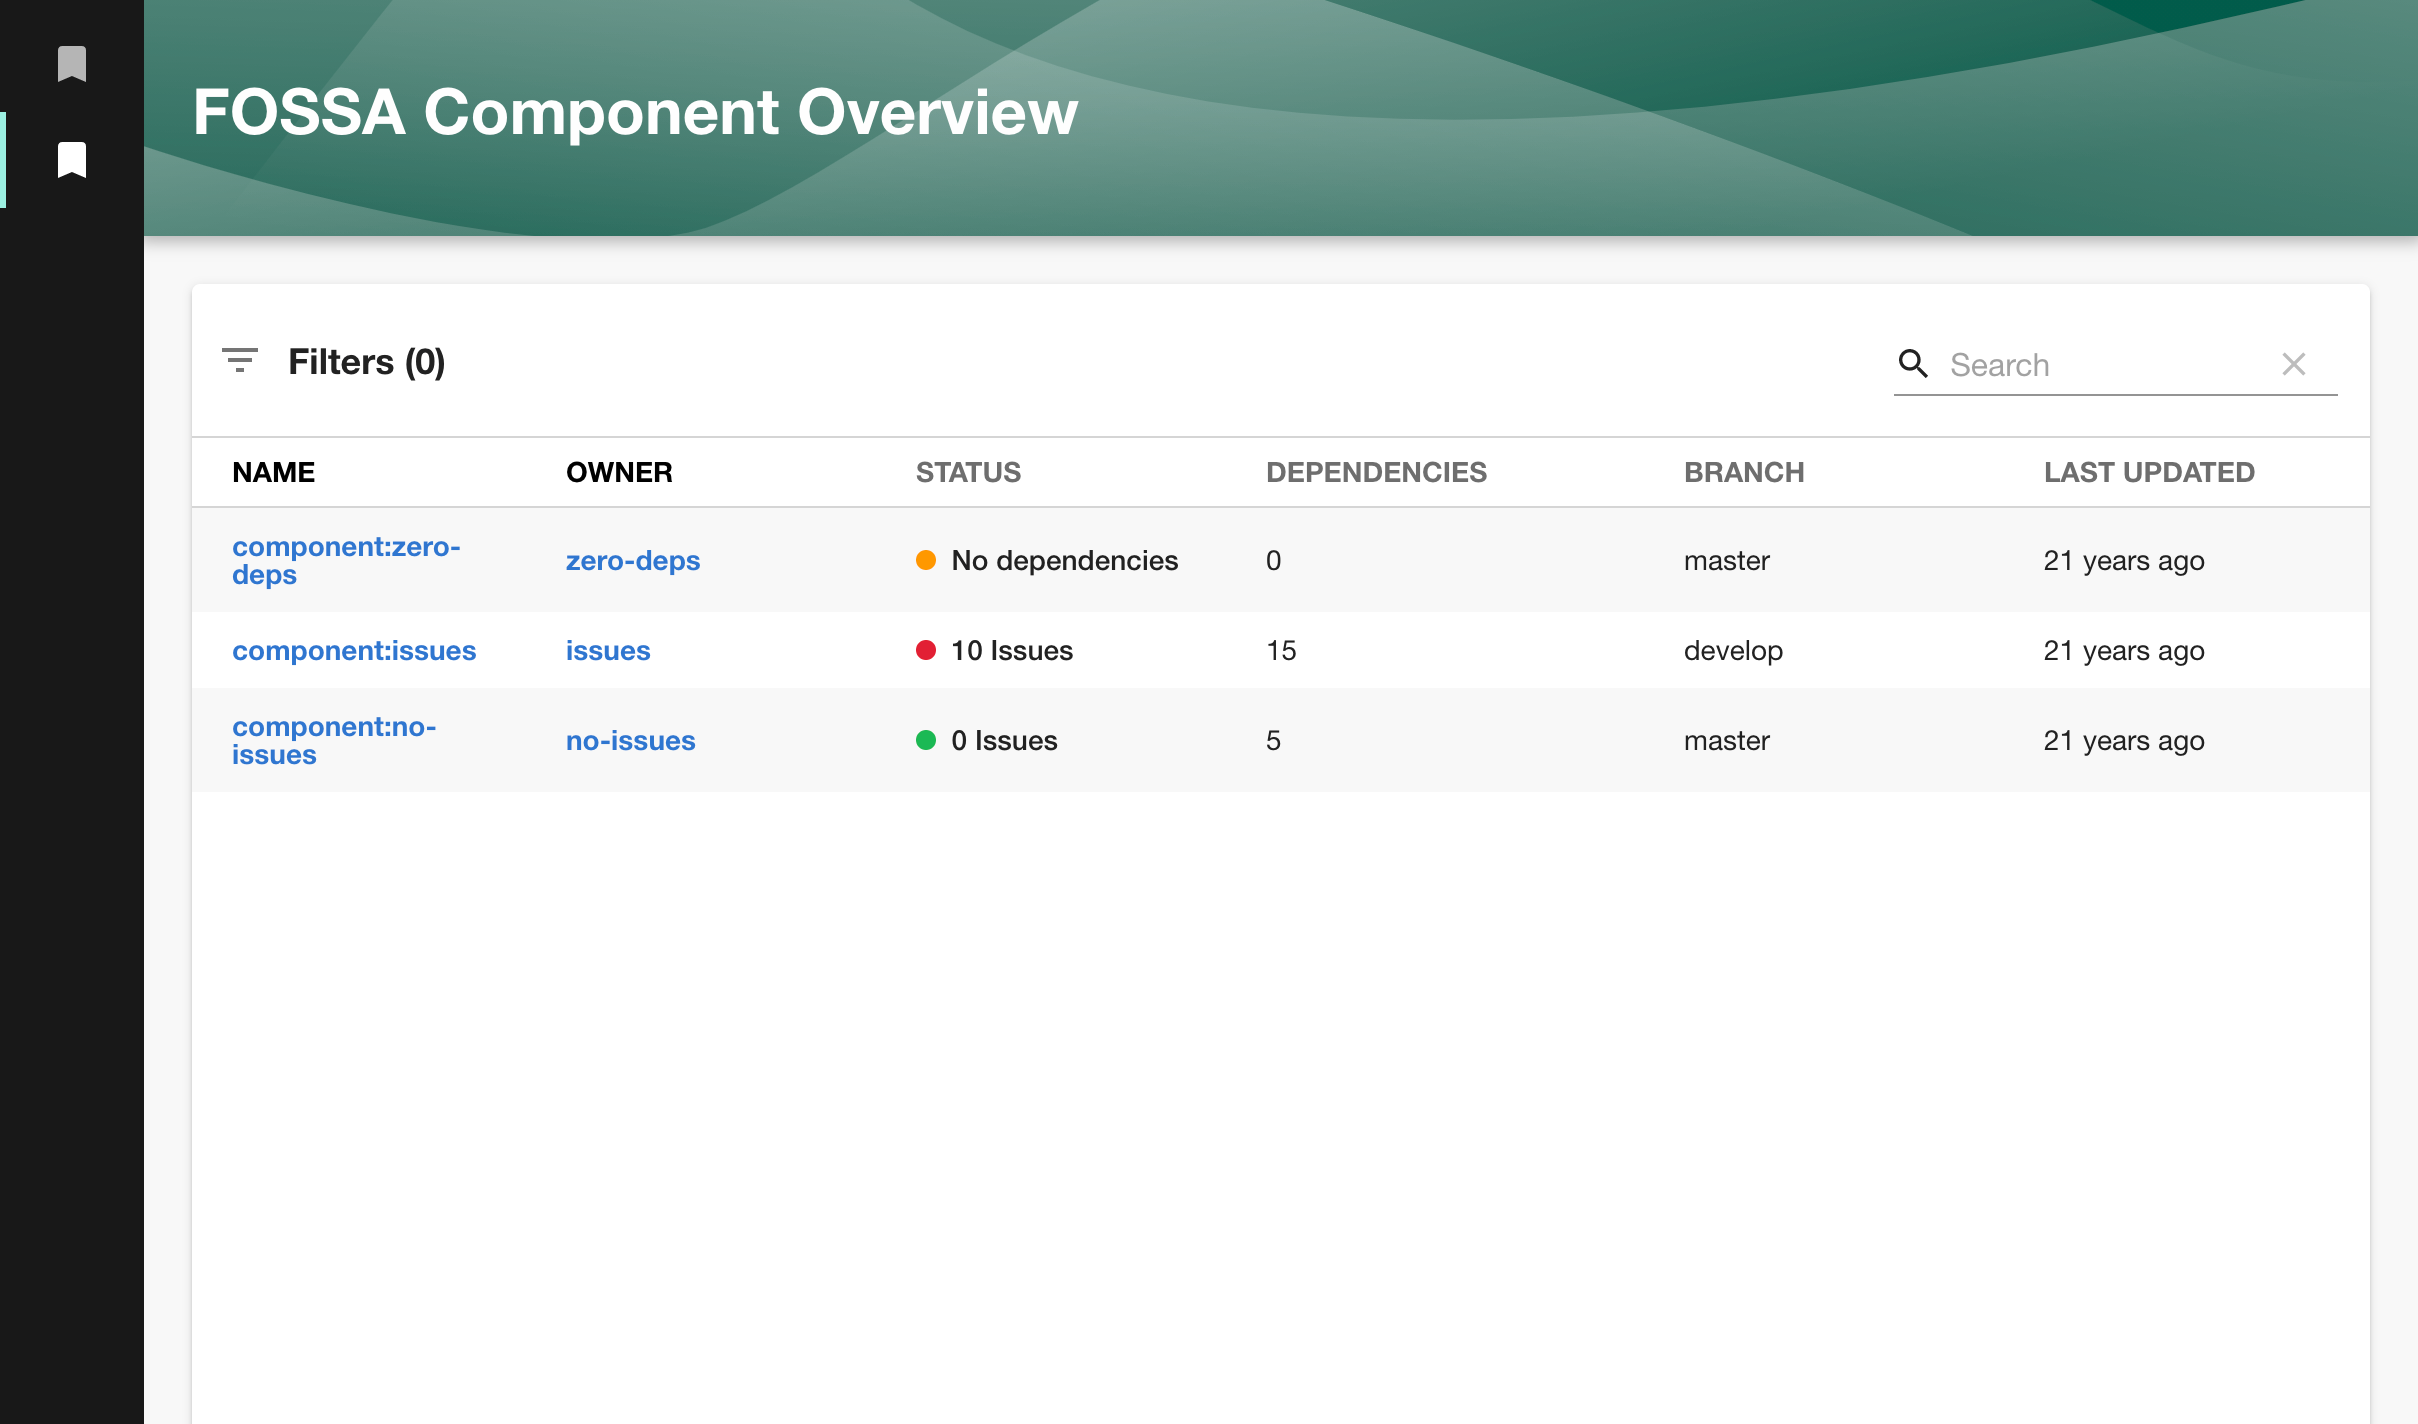
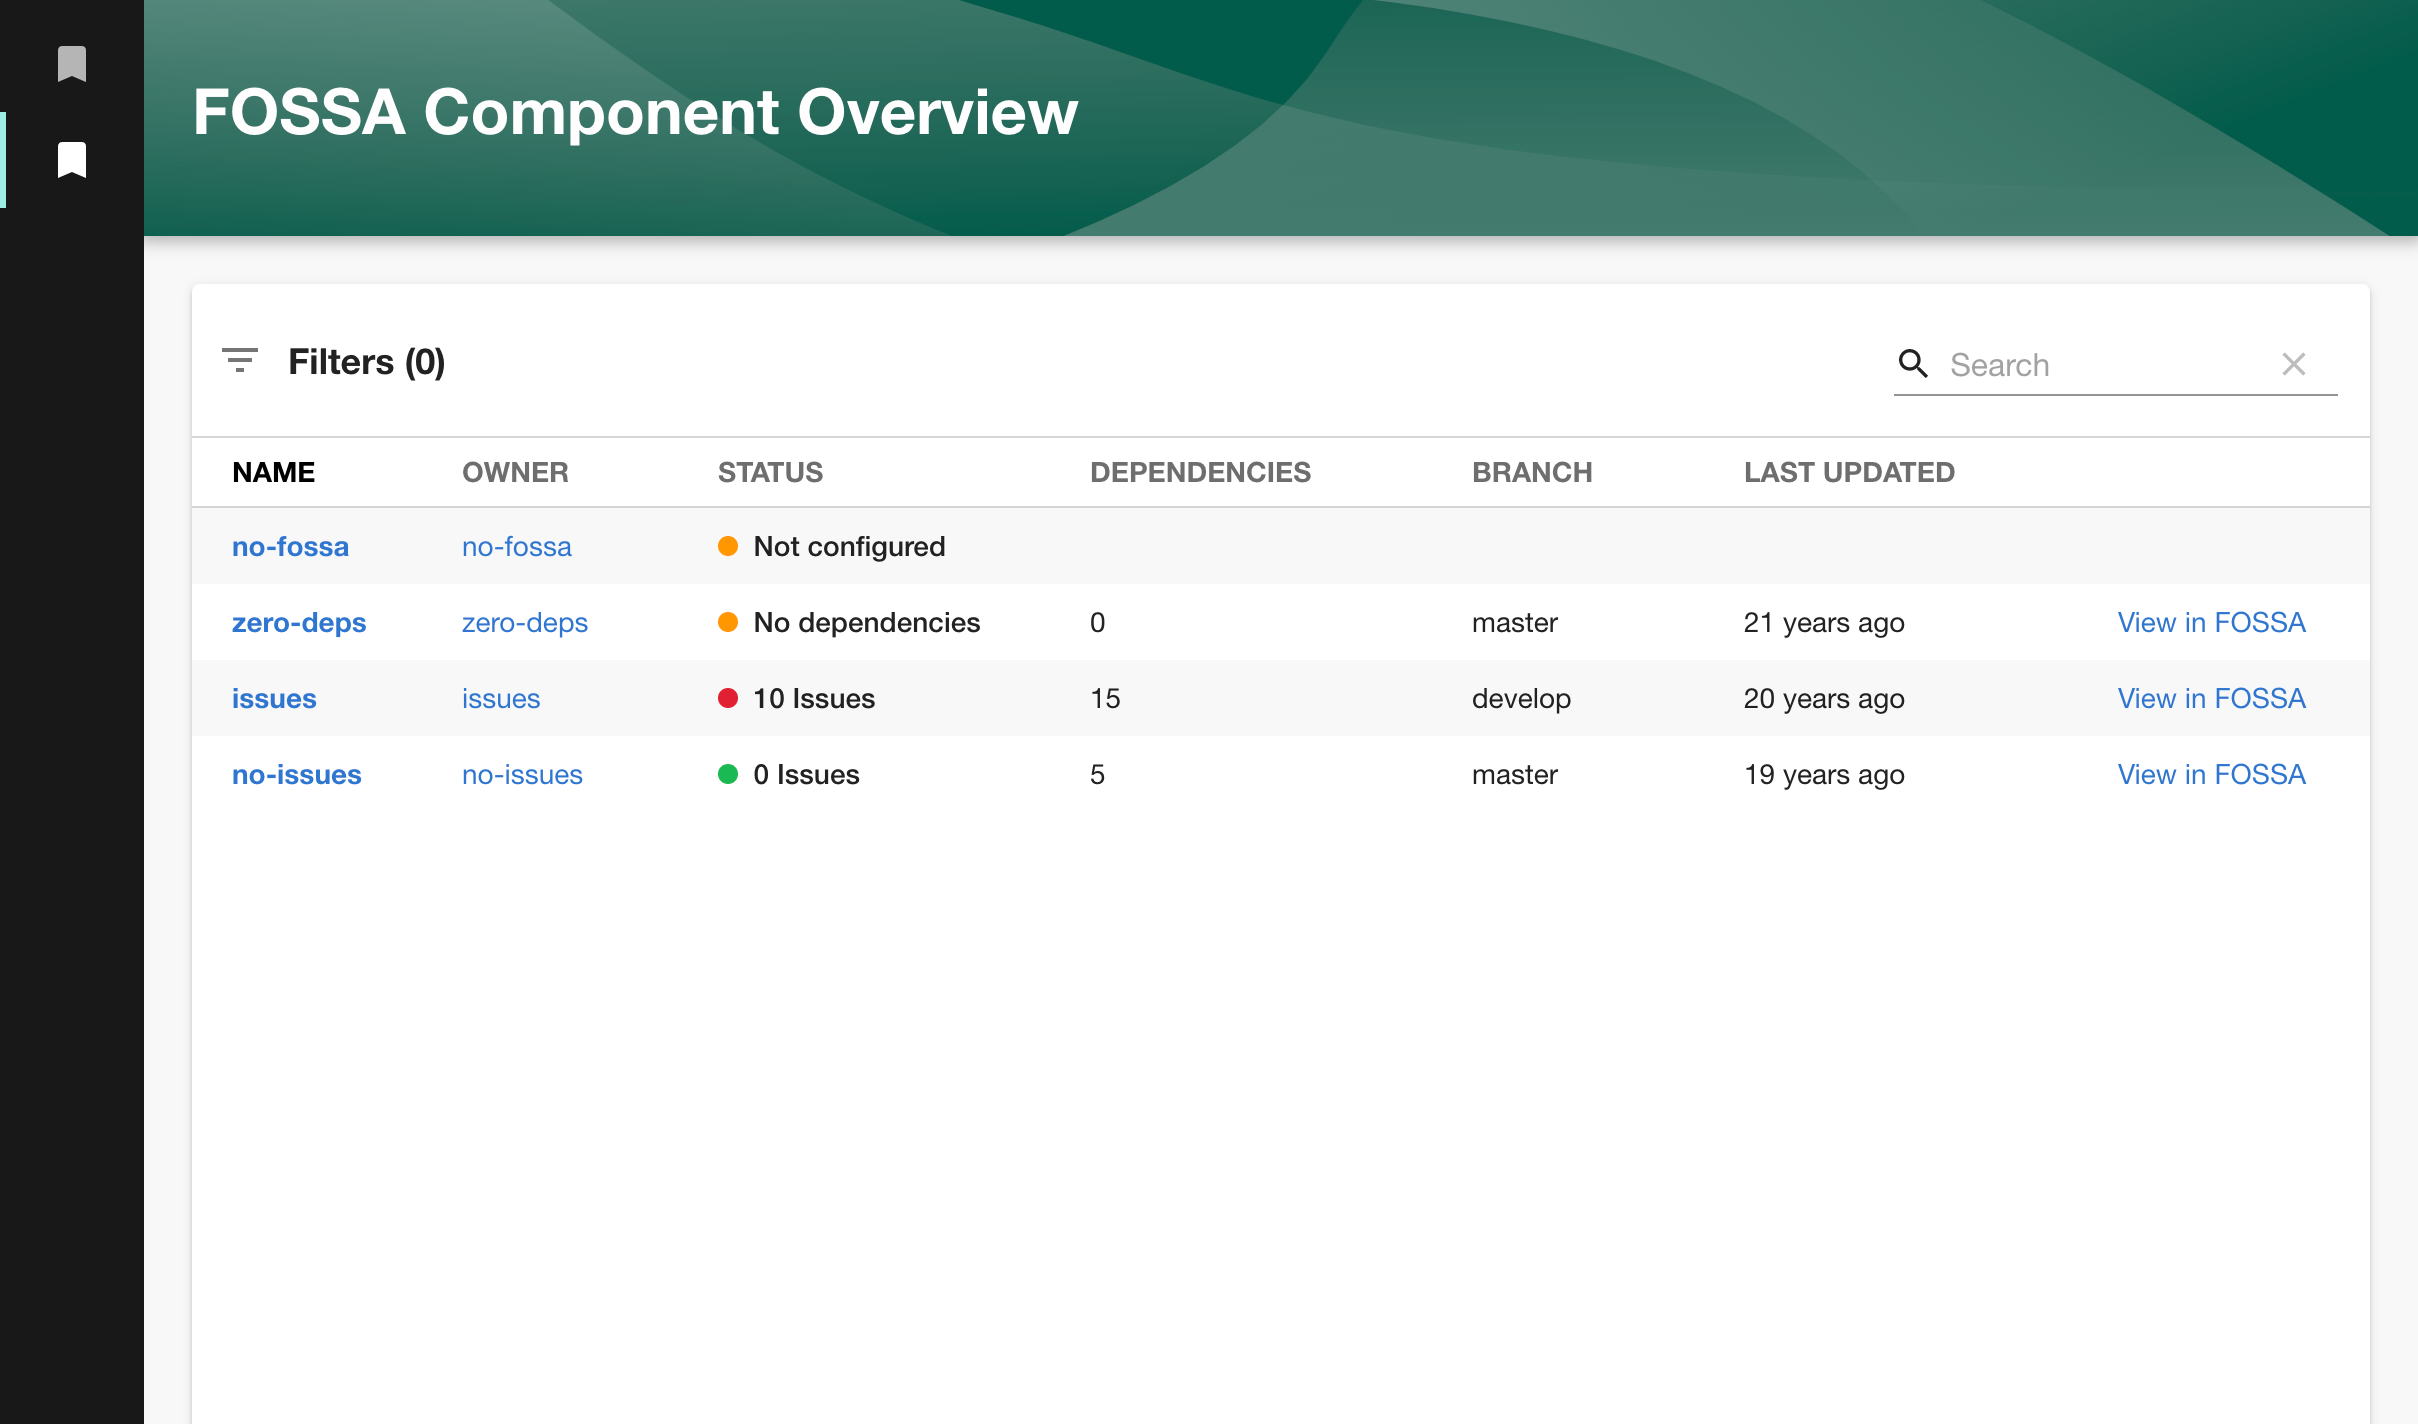
Add a link to the fossa details

diff --git a/plugins/fossa/src/components/FossaPage/FossaPage.tsx b/plugins/fossa/src/components/FossaPage/FossaPage.tsx
@@ -22,6 +22,7 @@ import {
 import {
   Content,
   Header,
+  Link,
   Page,
   StatusError,
   StatusOK,
@@ -63,6 +64,7 @@ const columns: TableColumn<FossaRow>[] = [
     title: 'Name',
     field: 'resolved.name',
     highlight: true,
+    width: 'auto',
     render: ({ entity }) => (
       <EntityRefLink entityRef={entity} defaultKind="Component" />
     ),
@@ -70,7 +72,6 @@ const columns: TableColumn<FossaRow>[] = [
   {
     title: 'Owner',
     field: 'resolved.ownedByRelationsTitle',
-    highlight: true,
     render: ({ resolved }) => (
       <EntityRefLinks
         entityRefs={resolved.ownedByRelations}
@@ -144,6 +145,16 @@ const columns: TableColumn<FossaRow>[] = [
           </Tooltip>
         )
       );
+    },
+  },
+  {
+    sorting: false,
+    render: ({ resolved: { loading, details } }) => {
+      if (loading) {
+        return <Skeleton animation="pulse" />;
+      }
+
+      return details && <Link to={details.projectUrl}>View in FOSSA</Link>;
     },
   },
 ];

diff --git a/plugins/fossa/dev/index.tsx b/plugins/fossa/dev/index.tsx
@@ -140,7 +140,12 @@ createDevApp()
           await new Promise(r => setTimeout(r, 1000));
 
           return {
-            items: [entity('zero-deps'), entity('issues'), entity('no-issues')],
+            items: [
+              entity('no-fossa'),
+              entity('zero-deps'),
+              entity('issues'),
+              entity('no-issues'),
+            ],
           };
         },
       } as Partial<CatalogApi>) as any),
